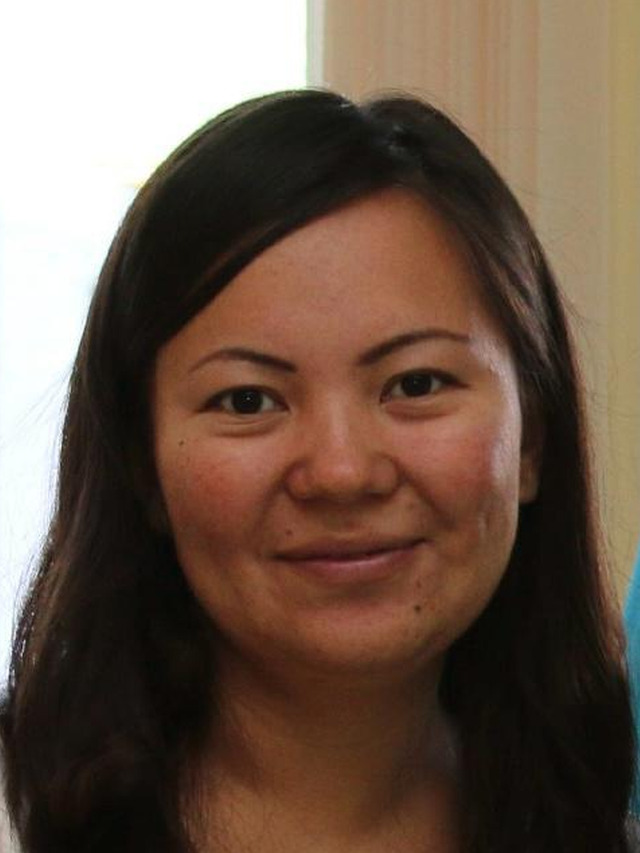
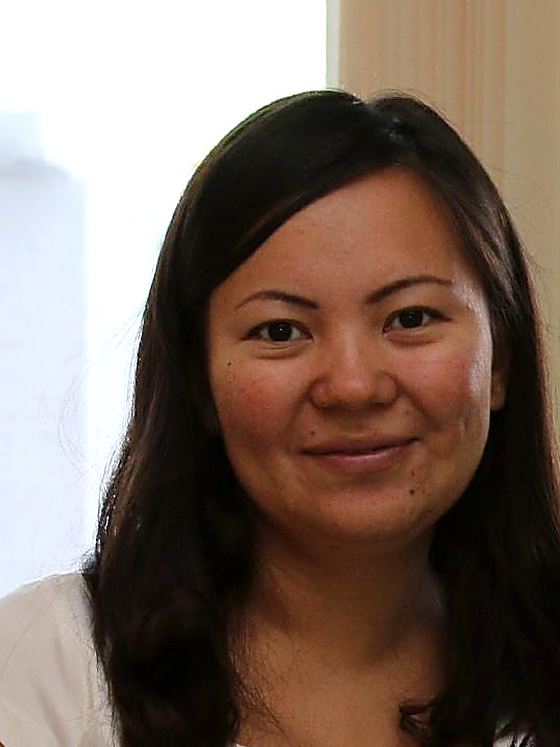
Голова одного размера на обоих фото, резкость, честная подпись

diff --git a/index.html b/index.html
@@ -659,7 +659,7 @@
       <p class="cta-note">Без карты. Покажу с первого дня, с чего начинать именно вам.</p>
     </div>
 
-    <p class="note rise">Снимки сделаны в разные годы, поэтому и свет, и обстановка на них разные — я не подбирала кадры и не обрабатывала их. Смотрите не на общее впечатление, а на линию челюсти и на то, как открыт взгляд: именно это меняется от работы руками.</p>
+    <p class="note rise">Снимки сделаны в разные годы, поэтому свет и обстановка на них разные. Я их не ретушировала: только обрезала под одинаковый масштаб, чтобы голова была одного размера и глаза на одной линии, и одинаково добавила резкости обоим. Смотрите не на общее впечатление, а на линию челюсти и на то, как открыт взгляд — меняется именно это.</p>
   </div>
 </section>
 
